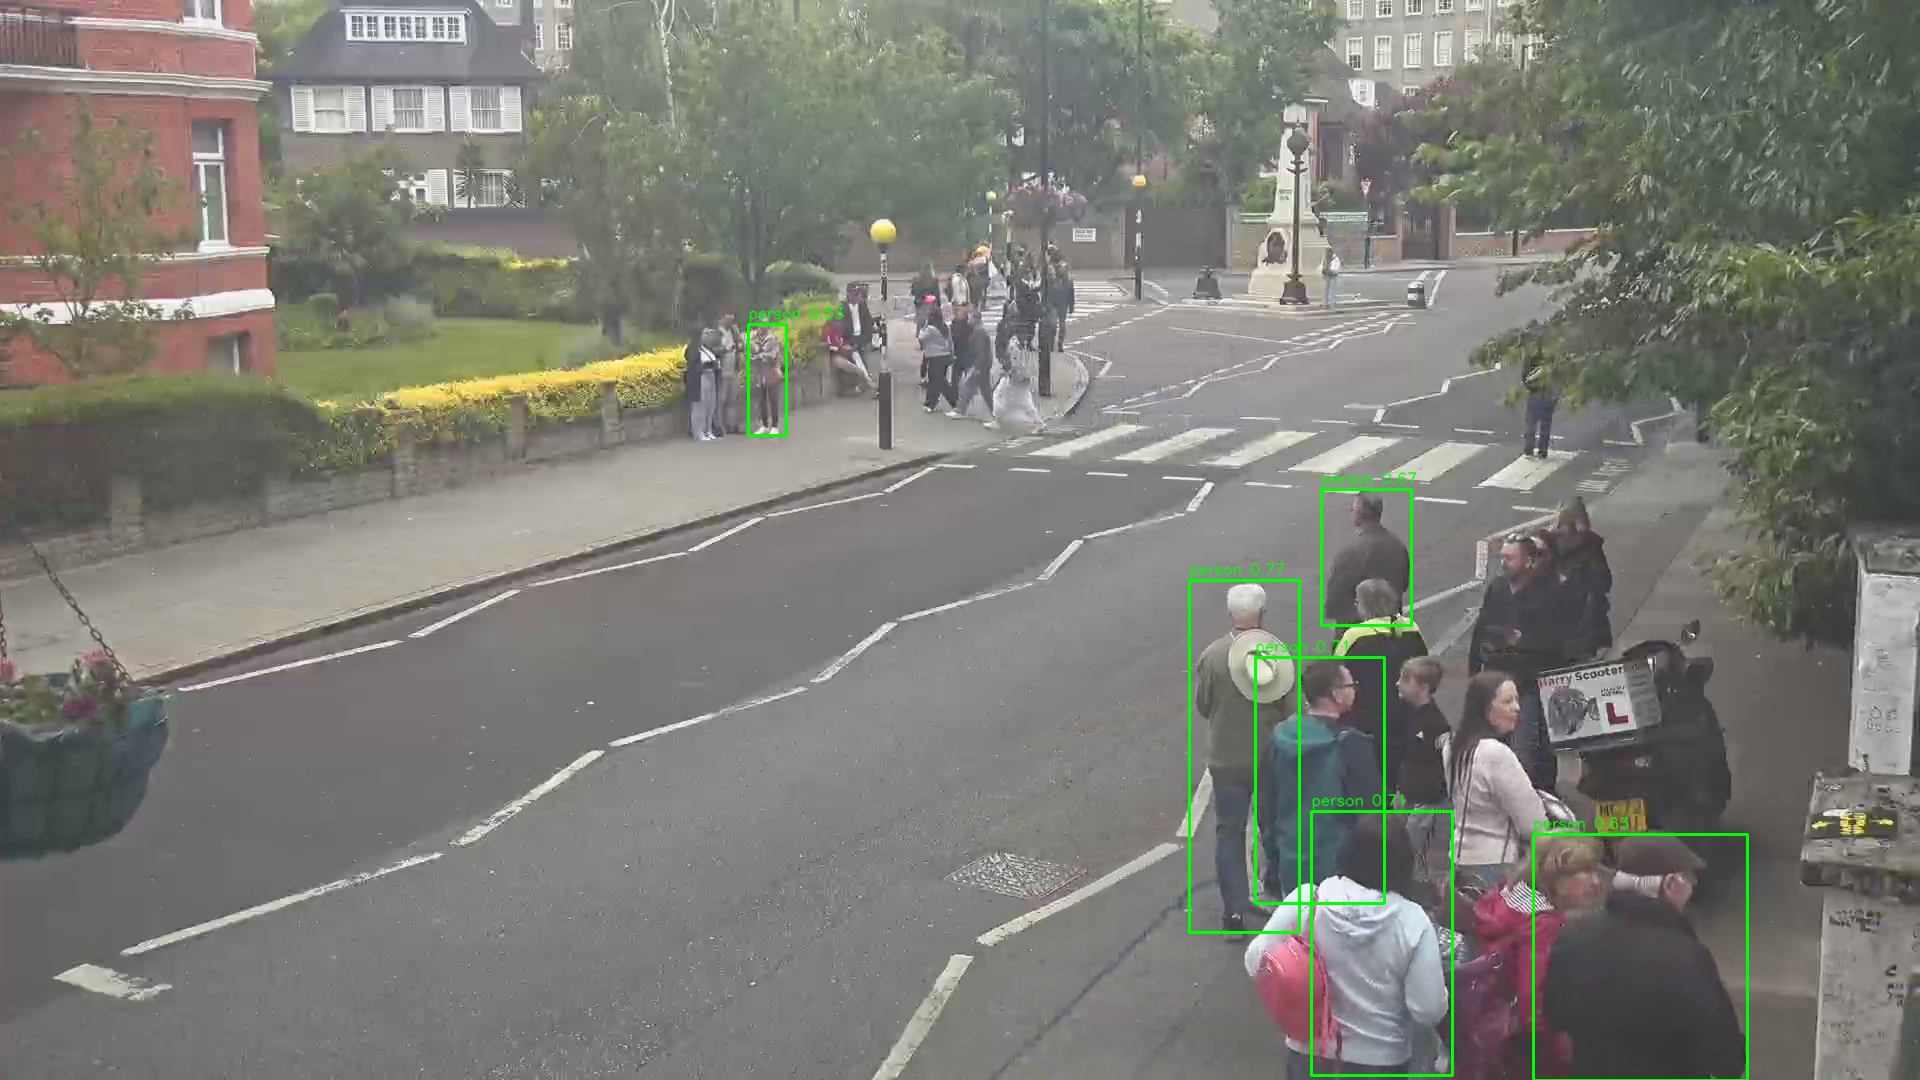
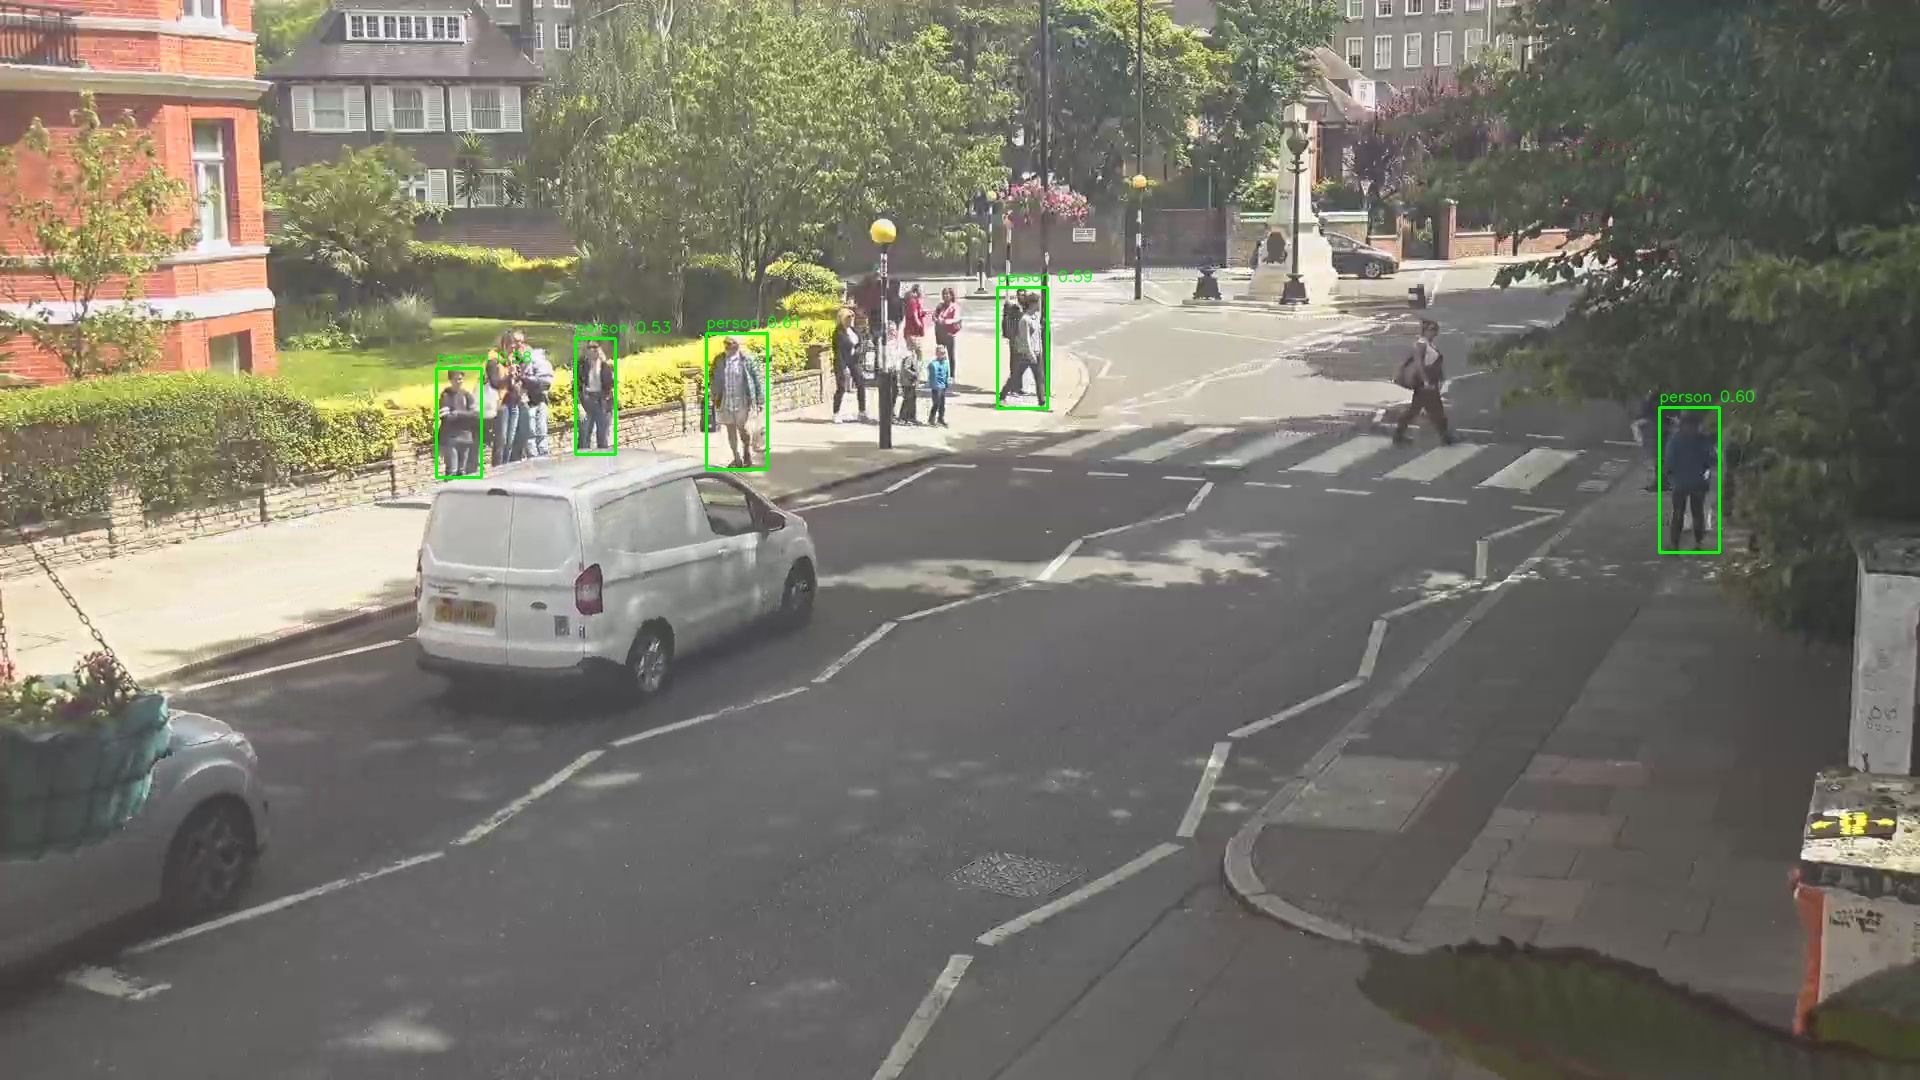
mejorando tarea 1.3

diff --git a/practica_tarea13.py b/practica_tarea13.py
@@ -1,6 +1,6 @@
 # practica_tarea13_cli.py
-# Tarea 1.3 — Detección de personas por frame con YOLOv8, CSV y gráfica (.jpg)
-# Uso:
+# Task 1.3 — Per-frame people counting with YOLOv8, CSV, and time plot (.jpg)
+# Usage examples:
 #   python practica_tarea13_cli.py --samples 30
 #   python practica_tarea13_cli.py --samples 30 --stream-url "http://.../mjpg/video.mjpg" --interval 5 --plot-out person_count.jpg
 
@@ -17,30 +17,41 @@ from ultralytics import YOLO
 import matplotlib.pyplot as plt
 
 # ============================
-# ======= UTILIDADES =========
+# ========= UTILITIES =========
 # ============================
 
 def ensure_csv_with_header(csv_path: str) -> None:
+    """Create CSV with header if it does not exist."""
     if not os.path.exists(csv_path):
         with open(csv_path, "w", newline="", encoding="utf-8") as f:
             writer = csv.DictWriter(f, fieldnames=["Timestamp", "Person_Count"])
             writer.writeheader()
 
 def append_csv(csv_path: str, ts: str, count: int) -> None:
+    """Append a single (timestamp, count) row to CSV."""
     with open(csv_path, "a", newline="", encoding="utf-8") as f:
         writer = csv.DictWriter(f, fieldnames=["Timestamp", "Person_Count"])
         writer.writerow({"Timestamp": ts, "Person_Count": count})
 
 def open_capture(url: str) -> cv2.VideoCapture:
-    # Intento con FFmpeg (para m3u8) y fallback sin flag
+    """
+    Try to open the stream with FFmpeg backend (good for HLS) and fall back to default.
+    Attempt to minimize internal buffering if the backend supports it.
+    """
     cap = cv2.VideoCapture(url, cv2.CAP_FFMPEG)
     if not cap.isOpened():
         cap = cv2.VideoCapture(url)
+    # Best-effort: shrink buffers (silently ignored if unsupported).
+    try:
+        cap.set(cv2.CAP_PROP_BUFFERSIZE, 1)
+    except Exception:
+        pass
     if not cap.isOpened():
         raise RuntimeError(f"No se pudo abrir el stream: {url}")
     return cap
 
 def draw_boxes(frame: np.ndarray, boxes_xyxy: List[List[int]], confs: List[float]) -> np.ndarray:
+    """Draw green boxes + confidences for detected persons."""
     for (x1, y1, x2, y2), score in zip(boxes_xyxy, confs):
         cv2.rectangle(frame, (x1, y1), (x2, y2), (0, 255, 0), 2)
         label = f"person {score:.2f}"
@@ -49,7 +60,10 @@ def draw_boxes(frame: np.ndarray, boxes_xyxy: List[List[int]], confs: List[float
     return frame
 
 def plot_csv(csv_path: str, out_path: str) -> None:
-    """Genera una gráfica JPG de Person_Count vs. tiempo a partir del CSV."""
+    """
+    Generate a JPG plot of Person_Count over samples using the CSV.
+    X-axis uses sample index; tick labels show spaced timestamps for readability.
+    """
     timestamps, counts = [], []
     with open(csv_path, "r", encoding="utf-8") as f:
         reader = csv.DictReader(f)
@@ -69,17 +83,17 @@ def plot_csv(csv_path: str, out_path: str) -> None:
     plt.ylabel("Personas por frame")
     plt.grid(True, linestyle="--", alpha=0.4)
 
-    # Etiquetas de tiempo espaciadas
+    # Space out timestamp tick labels
     N = max(1, len(timestamps) // 10)
     xticks_positions = list(range(0, len(x), N))
     xticks_labels = [timestamps[i] for i in xticks_positions]
     plt.xticks(xticks_positions, xticks_labels, rotation=45, ha="right")
 
     plt.tight_layout()
-    # Aseguramos extensión JPG
-    if not out_path.lower().endswith(".jpg") and not out_path.lower().endswith(".jpeg"):
+    # Ensure JPG extension
+    if not out_path.lower().endswith((".jpg", ".jpeg")):
         out_path += ".jpg"
-    plt.savefig(out_path, dpi=150)  # Matplotlib guarda JPG si la extensión es .jpg/.jpeg
+    plt.savefig(out_path, dpi=150)
     plt.close()
     print(f"Gráfica guardada en: {out_path}")
 
@@ -93,12 +107,17 @@ def parse_args():
     )
     parser.add_argument("--samples", type=int, required=True,
                         help="Número de muestras a tomar (frames muestreados).")
-    parser.add_argument("--stream-url", type=str, default="https://video2archives.earthcam.com/earthcamtv-vod/_definst_/mp4:archives/AbbeyRoadHD1/backup.mp4/playlist.m3u8",
+    parser.add_argument("--stream-url", type=str,
+                        default="https://video2archives.earthcam.com/earthcamtv-vod/_definst_/mp4:archives/AbbeyRoadHD1/backup.mp4/playlist.m3u8",
                         help="URL del stream (HLS .m3u8 o MJPEG).")
     parser.add_argument("--interval", type=float, default=5.0,
                         help="Intervalo de muestreo en segundos (p. ej., 5.0).")
     parser.add_argument("--model", type=str, default="yolov8n.pt",
                         help="Ruta al modelo YOLOv8 (se descarga si no existe).")
+    parser.add_argument("--imgsz", type=int, default=640,
+                        help="Tamaño de entrada para YOLO (mayor = más lento, potencialmente más preciso).")
+    parser.add_argument("--device", type=str, default="",
+                        help="Dispositivo para YOLO ('' autodetecta; use 'cpu' o '0' para GPU 0 si procede).")
     parser.add_argument("--csv-out", type=str, default="person_counts.csv",
                         help="Ruta del CSV de salida.")
     parser.add_argument("--plot-out", type=str, default="person_count.jpg",
@@ -128,24 +147,33 @@ def main():
     ensure_csv_with_header(CSV_PATH)
 
     print("Cargando modelo YOLOv8...")
-    model = YOLO(YOLO_MODEL_PATH)  # descarga si no existe
+    model = YOLO(YOLO_MODEL_PATH)  # auto-downloads if missing
 
-    print(f"Abrriendo stream: {STREAM_URL}")
+    print(f"Abriendo stream: {STREAM_URL}")
     cap = open_capture(STREAM_URL)
     print("Stream abierto correctamente.")
 
-    last_sample_time = 0.0
+    # Sample immediately on start (no initial delay).
+    last_sample_time = time.time() - SAMPLE_EVERY_SECONDS
     taken = 0
+    consecutive_failures = 0
 
     try:
         while taken < SAMPLES_TARGET:
             ok, frame = cap.read()
             if not ok or frame is None:
-                print("Frame no válido. Reintentando en 3s...")
-                cap.release()
-                time.sleep(3)
+                consecutive_failures += 1
+                wait_s = min(3 * consecutive_failures, 10)  # simple backoff up to 10s
+                print(f"Frame no válido ({consecutive_failures}). Reintentando en {wait_s}s...")
+                try:
+                    cap.release()
+                except Exception:
+                    pass
+                time.sleep(wait_s)
                 cap = open_capture(STREAM_URL)
                 continue
+            else:
+                consecutive_failures = 0
 
             now = time.time()
             if (now - last_sample_time) < SAMPLE_EVERY_SECONDS:
@@ -153,26 +181,32 @@ def main():
                     cv2.imshow("Preview (sin muestrear)", frame)
                     if cv2.waitKey(1) & 0xFF == ord('q'):
                         break
+                else:
+                    # Be nice to the CPU when not sampling
+                    time.sleep(0.01)
                 continue
 
+            # Time to sample
             last_sample_time = now
 
-            # Inferencia solo clase "person"
+            # Run inference on the current frame (persons only)
             results = model.predict(
                 source=frame,
                 conf=CONF_THRESHOLD,
                 classes=[PERSON_CLASS_ID],
+                imgsz=args.imgsz,
+                device=args.device if args.device is not None else "",
                 verbose=False
             )
             res = results[0]
 
             boxes_xyxy, confs = [], []
-            if res.boxes is not None and len(res.boxes) > 0:
+            if getattr(res, "boxes", None) is not None and len(res.boxes) > 0:
                 for b in res.boxes:
                     cls_id = int(b.cls[0].item()) if b.cls is not None else -1
                     score = float(b.conf[0].item()) if b.conf is not None else 0.0
                     if cls_id == PERSON_CLASS_ID and score >= CONF_THRESHOLD:
-                        x1, y1, x2, y2 = b.xyxy[0].int().tolist()
+                        x1, y1, x2, y2 = map(int, b.xyxy[0].tolist())
                         boxes_xyxy.append([x1, y1, x2, y2])
                         confs.append(score)
 
@@ -194,10 +228,13 @@ def main():
     except KeyboardInterrupt:
         print("Interrumpido por el usuario.")
     finally:
-        cap.release()
+        try:
+            cap.release()
+        except Exception:
+            pass
         cv2.destroyAllWindows()
 
-    # Gráfica final en .jpg
+    # Generate final .jpg plot
     try:
         plot_csv(CSV_PATH, PLOT_PATH)
     except Exception as e:

diff --git a/validate_tarea13.py b/validate_tarea13.py
@@ -1,0 +1,55 @@
+import sys, csv, os
+from datetime import datetime
+
+def fail(msg): print("FAIL:", msg); sys.exit(1)
+def ok(msg): print("OK:", msg)
+
+if len(sys.argv) < 4:
+    print("Usage: python validate_tarea13.py <csv_path> <expected_samples> <interval_seconds>")
+    sys.exit(2)
+
+csv_path = sys.argv[1]
+expected = int(sys.argv[2])
+interval = float(sys.argv[3])
+
+if not os.path.exists(csv_path): fail(f"CSV not found: {csv_path}")
+
+with open(csv_path, newline='', encoding='utf-8') as f:
+    r = list(csv.reader(f))
+if not r or r[0] != ["Timestamp","Person_Count"]:
+    fail("Header must be exactly: Timestamp,Person_Count")
+ok("Header OK")
+
+rows = r[1:]
+if len(rows) != expected:
+    fail(f"Row count {len(rows)} != expected {expected}")
+ok(f"Row count OK = {expected}")
+
+# parse data
+times = []
+counts = []
+for i,(ts, cnt) in enumerate(rows, start=1):
+    try:
+        t = datetime.strptime(ts, "%Y-%m-%d %H:%M:%S")
+        c = int(cnt)
+        if c < 0: fail(f"Negative count at row {i}")
+    except Exception as e:
+        fail(f"Bad row {i}: {e}")
+    times.append(t); counts.append(c)
+ok("All rows are valid and non-negative integers")
+
+# timing deltas (allow slack because inference adds time)
+if len(times) >= 2:
+    deltas = [(times[i]-times[i-1]).total_seconds() for i in range(1, len(times))]
+    median = sorted(deltas)[len(deltas)//2]
+    print(f"Δt stats (s): min={min(deltas):.2f} median={median:.2f} max={max(deltas):.2f}")
+else:
+    print("Only one sample; skipping Δt checks.")
+
+# weak sanity: if all zeros and you expected people, warn (not fail)
+if all(c==0 for c in counts):
+    print("WARN: All counts are zero. If your scene has people, try lowering --conf or another stream.")
+else:
+    print("Counts vary as expected.")
+
+print("PASS: Task 1.3 artifacts look correct.")
